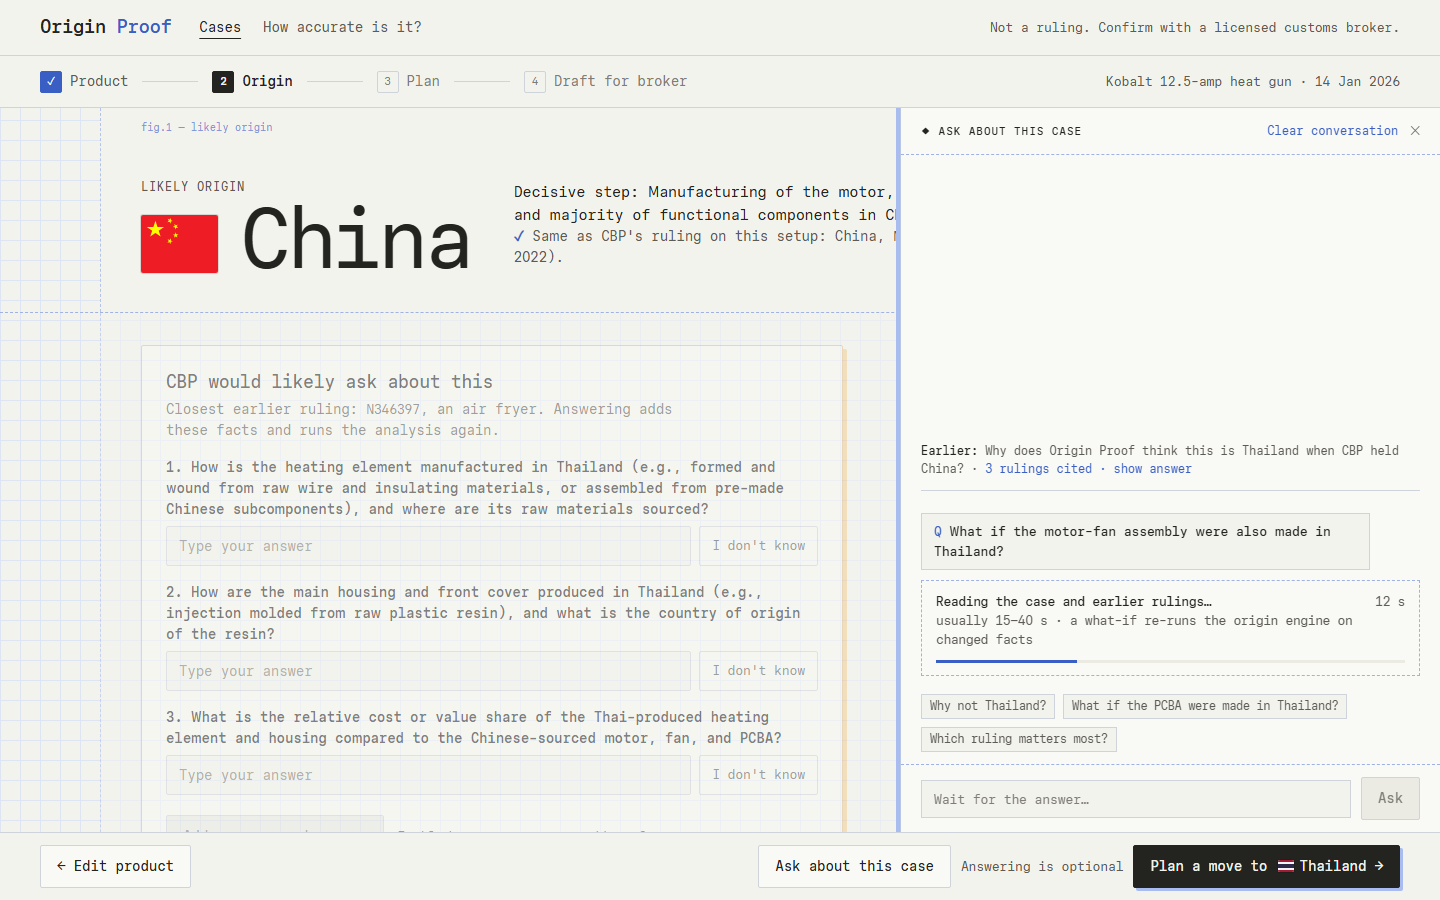
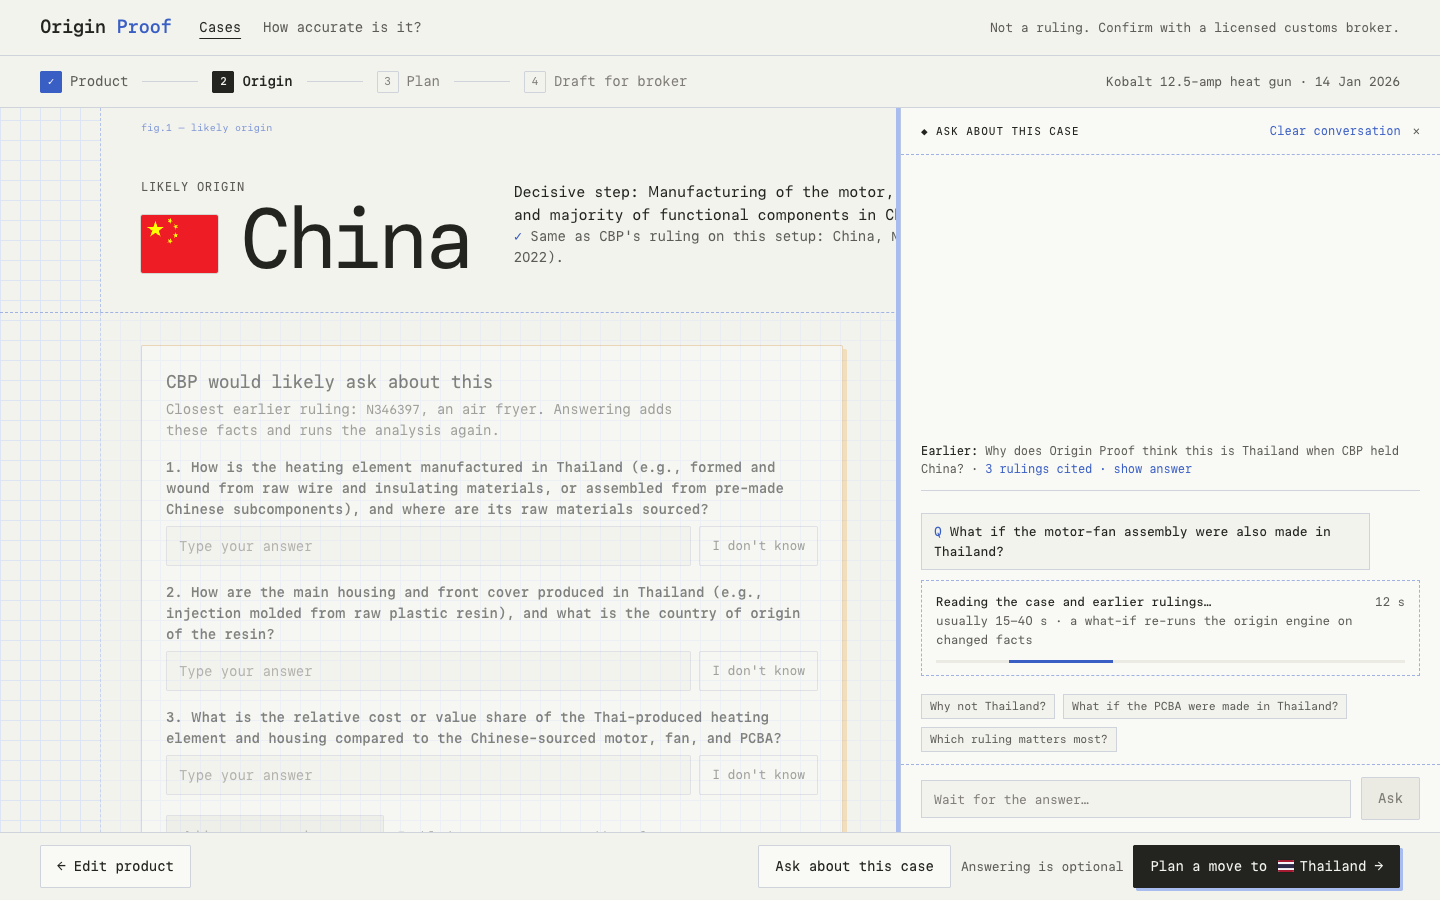
docs(design): ask drawer dates and indeterminate waiting bar (#46)
Cited rulings use the 27 Aug 2025 date form like the Result screen.
The waiting bar slides a segment instead of filling from the left,
since the ask endpoint reports no progress.

diff --git a/docs/design/keyframes/p-ask.html b/docs/design/keyframes/p-ask.html
@@ -184,6 +184,6 @@ main{background:var(--paper);border-left:1px dashed #b3c3ea;border-right:1px das
 <div class="bmid"><p class="lead">Decisive step: Manufacturing of the motor, fan, PCBA, and majority of functional components in China.</p><p class="match">Same as CBP's ruling on this setup: China, <span class="mono">N328954</span> (Nov 2022).</p></div>
 <div class="bright"><span class="chip ask">Needs expert review</span><div class="ruler"><div class="ax"></div><div class="tk" style="left:0%"><span>0</span></div><div class="tk" style="left:50.0%"><span>.5</span></div><div class="tk" style="left:100%"><span>1</span></div><div class="val" style="left:85%"></div><div class="fp" style="left:92%"><b>0.92 auto-accept</b></div></div><div class="rlab">confidence 0.85</div></div></div></div>
[3 lines of base64/hex data omitted]
 <div class="sugg"><span>Why not Thailand?</span><span>What if the PCBA were made in Thailand?</span><span>Which ruling matters most?</span></div>
 <div class="dc"><div class="field">Ask about this case, or "what if …"</div><span class="btn">Ask</span></div></div></body></html>

diff --git a/docs/design/keyframes/p-ask-waiting.html b/docs/design/keyframes/p-ask-waiting.html
@@ -175,7 +175,7 @@ main{background:var(--paper);border-left:1px dashed #b3c3ea;border-right:1px das
 .sugg{display:flex;gap:8px;flex-wrap:wrap;padding:0 20px 12px}.sugg span{font-size:11.5px;border:1px solid var(--line);padding:3px 8px;color:var(--dim);background:var(--paper)}
 .wait{border:1px dashed #9fb2e3;padding:12px 14px;font-size:12.5px;color:var(--dim)}
 .wait b{font-weight:500;color:var(--ink)}.wait .el{font-family:var(--mono);float:right}
-.wait .prog{height:3px;background:var(--wash);margin-top:10px;position:relative}.wait .prog i{position:absolute;left:0;top:0;bottom:0;width:30%;background:var(--ok)}
+.wait .prog{height:3px;background:var(--wash);margin-top:10px;position:relative}.wait .prog{overflow:hidden}.wait .prog i{position:absolute;left:38%;top:0;bottom:0;width:22%;background:var(--ok);animation:slide 1.6s ease-in-out -0.6s infinite}@keyframes slide{0%{left:-22%}100%{left:100%}}@media print{.wait .prog i{animation:none}}
 .dim2{opacity:.55}
 .askbtn{display:inline-flex;align-items:center;gap:6px}
 </style></head><body>

diff --git a/docs/design/DESIGN.md b/docs/design/DESIGN.md
@@ -142,6 +142,6 @@ Key frames: `docs/design/keyframes/step4.html` (Result screen compositions) and 
 - **Demo framing (decided):** compare targets stays out of the video's main path. Every check in the recording is 0.65, far below the single-country Thailand plan (0.92+), and it would weaken the plan story. At most a 2-second cutaway after the Thailand plan ("other countries? none clears the bar"), recorded with the cache on. Live finals: show it only if asked.
 - **Ask the case is a drawer on the Result screen.** "Ask about this case" (ghost button, Result footer) opens a 540 px right-hand drawer over the evidence column. The verdict band stays visible and the main column dims. Not a tab: the evidence and the conversation are needed side by side less than the verdict and the conversation. `POST /v1/cases/{id}/ask` with `{question}`; "Clear conversation" sends `{reset: true}`. On open, the drawer shows `case.chat` (earlier turns collapsed to one line: question · "{n} rulings cited · show answer"; the newest in full).
 - Reply layout, top to bottom: the question; what-if cards (`what_ifs`: "What if · {change}", flag and origin, ruler with the 0.92 bar, decisive step clipped at 2 lines, "Add as a scenario →", which posts the change as a facts scenario); the answer text in duospace with ruling numbers linked in blue; "Cited · rulings the agent read" rows from `cited_rulings` only (short subject · date · held {origin} when the ruling is in the pool, otherwise the number only). `dropped_rulings` are never shown. Last, the tool steps from `steps` in faint mono ("get_case → what_if("…") · 3 model calls · 20 s") as a quiet audit trail.
-- Waiting (15–40 s): the question appears at once, with a dashed box "Reading the case and earlier rulings…", elapsed seconds, "usually 15–40 s", an indeterminate bar and the composer disabled. Errors use the model-error pattern (retry when `retryable`).
+- Waiting (15–40 s): the question appears at once, with a dashed box "Reading the case and earlier rulings…", elapsed seconds, "usually 15–40 s", an indeterminate bar (a segment sliding across, never a fill from the left: the endpoint reports no progress) and the composer disabled. Cited-ruling dates use the same "27 Aug 2025" form as the Result screen. Errors use the model-error pattern (retry when `retryable`).
 - Suggested questions under the log (fixed copy, not generated): "Why not {target}?", "What if the {largest Chinese group} were made in {target}?", "Which ruling matters most?". Disclaimer text from the reply stays in the answer as returned.
 - Not in the video's main path either. A possible 5-second beat: the what-if card returning Thailand 0.98 on the Result screen.
